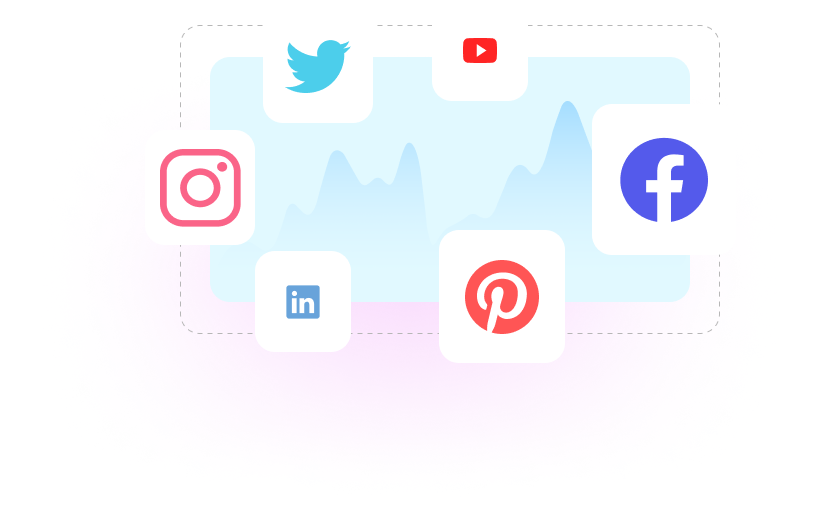
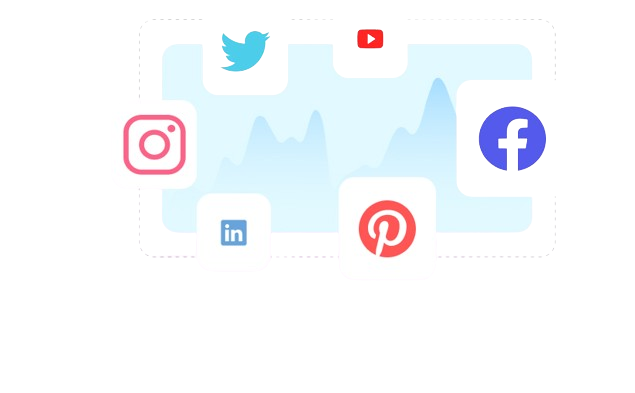
.

diff --git a/first-many-projects/src/features/connect/connect.css b/first-many-projects/src/features/connect/connect.css
@@ -1,18 +1,38 @@
 .connect-container {
     margin-top: 400px;
     /*height: 70vh;*/
-    width: 50vw;
+    width: 63vw;
     border-radius: 20px;
     border: 1px solid red;
 }
 
 .connect {
     display: flex;
-    gap: 10px;
+    /*gap: 10px;*/
 }
 
 .connect-left {
     display: flex;
     flex-direction: column;
     gap: 15px;
+}
+
+.connect-left h1 {
+    font-size: 2rem;
+}
+
+.connect-left p {
+    font-size: 1rem;
+    font-weight: 400;
+    line-height: 30px;
+    text-align: left;
+
+}
+
+.connect-right {
+    display: block;
+}
+
+.connect-right img {
+    width: 30rem;
 }

diff --git a/first-many-projects/src/features/connect/Connect.jsx b/first-many-projects/src/features/connect/Connect.jsx
@@ -1,6 +1,7 @@
 import React from 'react';
 import './connect.css'
-import socials from "../../assets/socials.png"
+import schedule from '../../assets/Shedule.png'
+// import socials from "../../assets/socials.png"
 
 const Connect = () => (
     <div className="connect-container">
@@ -13,7 +14,7 @@ const Connect = () => (
             </div>
 
             <div className="connect-right">
-                <img src={socials} alt="socials"/>
+                <img src={schedule} alt="socials"/>
             </div>
         </div>
     </div>

diff --git a/first-many-projects/src/features/doing-second/doing-second.css b/first-many-projects/src/features/doing-second/doing-second.css
@@ -1,7 +1,7 @@
 .doing-second-container {
     background-image: url("../../assets/doingSeconf.png");
     height: 70vh;
-    width: 65vw;
+    width: 70vw;
     background-repeat: no-repeat;
     background-position: center;
     background-size: cover;

diff --git a/first-many-projects/src/features/Doing-board/doing-board.css b/first-many-projects/src/features/Doing-board/doing-board.css
@@ -21,7 +21,7 @@
     width: 100vw;
     height: 60%;
     align-items: center;
-    gap: 30%;
+    gap: 35%;
     padding: 30px 0 0 0;
 }
 
